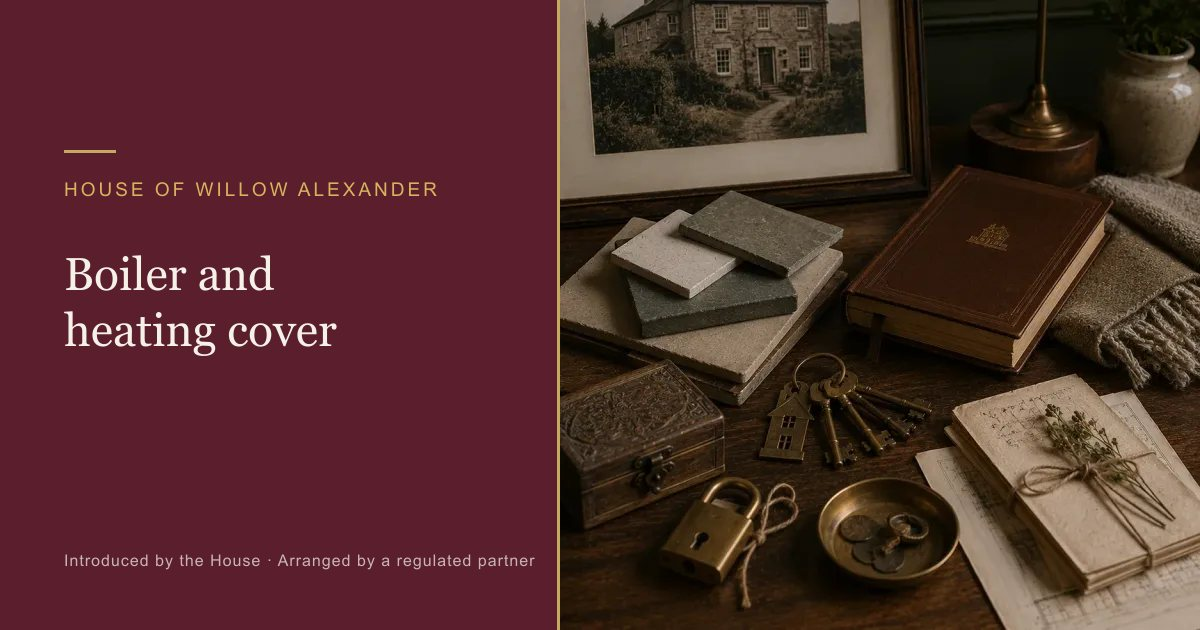
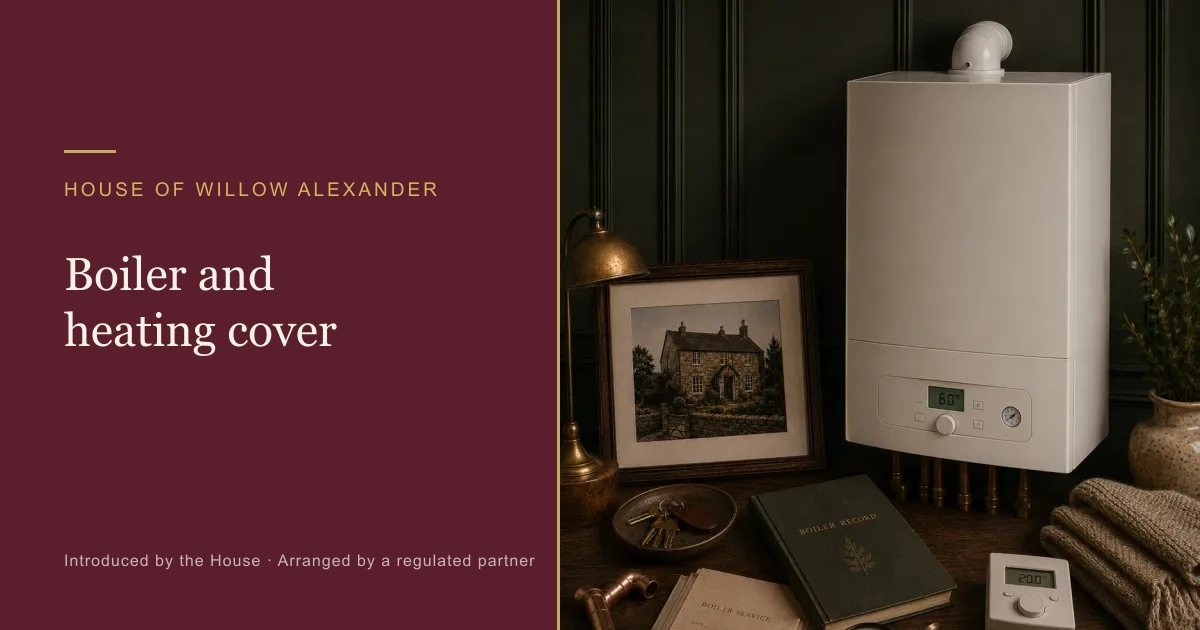
assets(insurance): swap in bespoke boiler / appliance / home images + regen OG cards

diff --git a/src/app/page.tsx b/src/app/page.tsx
@@ -26,7 +26,7 @@ export const metadata = {
 /** The four Protect products. Boiler and appliance are home-cover products with
  *  their own pages; home and pet route to the insurance introductions. */
 const PROTECT = [
-  { title: "Home Insurance", who: "Period homes, non-standard construction and valuable contents that do not fit a comparison form.", signal: "Advised, arranged by our partner", cta: "Get a home insurance quote", href: "/insurance/private-client", image: "/insurance/hub-hero.webp", alt: "An olive-green Georgian townhouse" },
+  { title: "Home Insurance", who: "Period homes, non-standard construction and valuable contents that do not fit a comparison form.", signal: "Advised, arranged by our partner", cta: "Get a home insurance quote", href: "/insurance/private-client", image: "/insurance/ev-home.webp", alt: "A well-kept British home" },
   { title: "Pet Insurance", who: "Dogs and cats. Lifetime, time-limited and accident-only cover, explained plainly.", signal: "For cats and dogs", cta: "Get a pet quote", href: "/insurance/everyday/pet-and-travel", image: "/insurance/ev-pet.webp", alt: "A family pet at home" },
   { title: "Boiler Cover", who: "Help when the heating stops, with cover for boilers and central heating.", signal: "Annual and monthly options", cta: "Check boiler cover", href: "/insurance/boiler-cover", image: "/insurance/boiler-cover.webp", alt: "A warm, well-kept home" },
   { title: "Appliance Cover", who: "Protect the household appliances you rely on, from washing machines to ovens.", signal: "Single or multiple items", cta: "Cover an appliance", href: "/insurance/appliance-cover", image: "/insurance/appliance-cover.webp", alt: "A considered home interior" },
